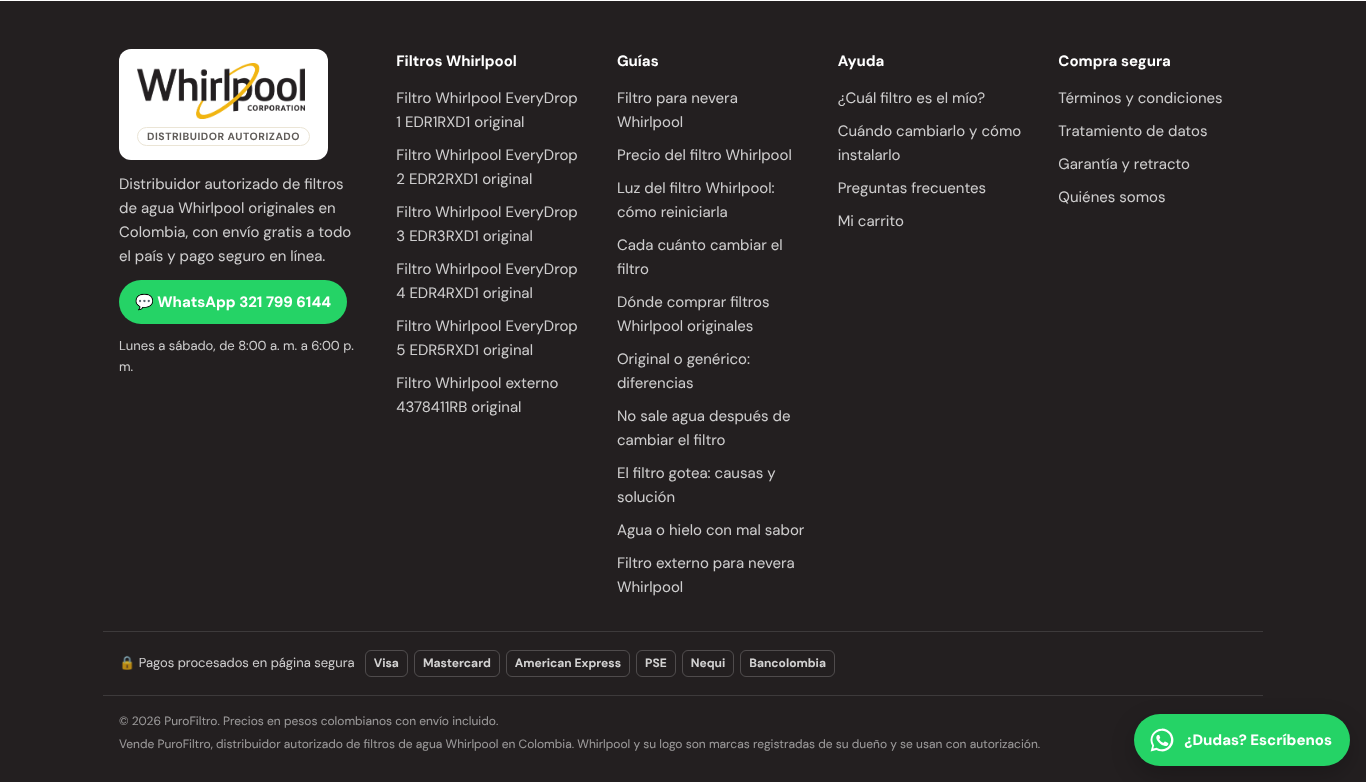
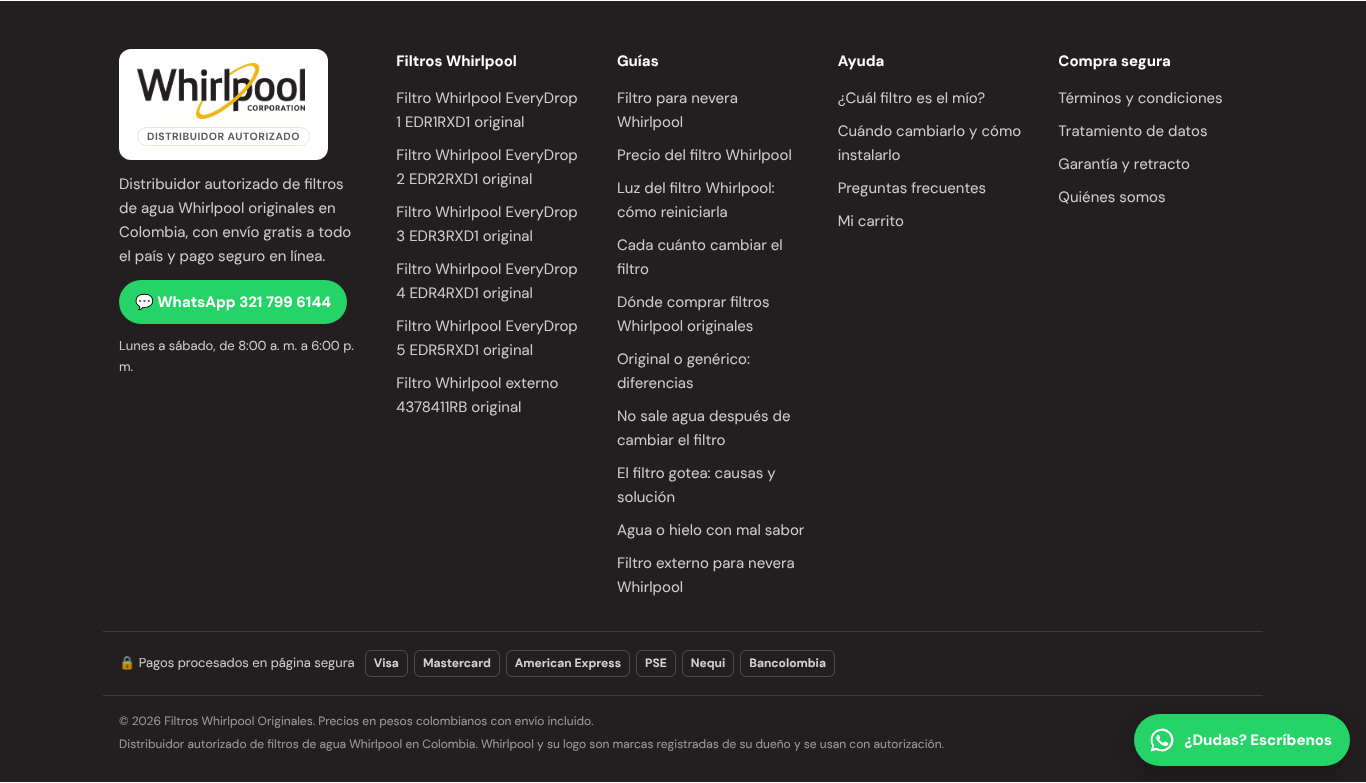
Sitios por marca sin rastro de PuroFiltro
- El nombre que ve el cliente es el de la tienda de la marca («Filtros GE Originales»).
- Carpetas sin el prefijo purofiltro- (img/, api/, data/...) y zips tienda-<marca>.zip.
- Número de pedido con las iniciales de la marca (GE-, LG-, SA-, WH-).

Claude-Session: https://claude.ai/code/session_01Sp6cWLHDTqXsEaejCBC2fh

Changed region(s): [[0.0922, 0.9195, 0.6764, 0.9808]]

diff --git a/filtroya-web/src/purofiltro-marcas.css b/filtroya-web/src/purofiltro-marcas.css
@@ -209,7 +209,7 @@ body:has(.m-barra) .wa-flot{bottom:calc(86px + env(safe-area-inset-bottom))}
 .fy-toast{position:fixed;left:50%;bottom:calc(16px + env(safe-area-inset-bottom,0px));transform:translate(-50%,160%);background:var(--pie);color:#fff;border-radius:14px;padding:12px 14px;display:flex;gap:14px;align-items:center;box-shadow:0 10px 30px rgba(0,0,0,.3);z-index:90;transition:transform .25s;max-width:calc(100% - 32px)}
 .fy-toast.on{transform:translate(-50%,0)}.fy-toast a{color:var(--hero-acento);font-weight:800;white-space:nowrap}
 
-/* Colores tomados de cada logo. El logo no se usa: el nombre va en texto junto al de PuroFiltro. */
+/* Colores tomados del logo de cada marca. */
 /* ===== Samsung: azul del logo #1428A0 sobre blanco ===== */
 body.m-samsung{--f-titulo:"Plus Jakarta Sans",system-ui,sans-serif;--f-texto:"Plus Jakarta Sans",system-ui,sans-serif;--ls-marca:.22em;
   --pri:#1428a0;--ink:#0b1440;--muted:#545c78;--fondo:#ffffff;--panel:#f2f4fb;--card:#ffffff;--suave:#e6eaf8;--line:#dde2f1;--ok:#0f8a5f;

diff --git a/filtroya-web/build.py b/filtroya-web/build.py
@@ -574,11 +574,11 @@ for marca in marcas_exclusivas.MARCAS_INFO:
     ids = {p["id"] for p in CATALOGO if p["marca"] == marca}
     if d.exists():  # los pedidos de purofiltro-data/ nunca se borran
         for hijo in d.iterdir():
-            if hijo.name != PREFIJO + "data":
+            if hijo.name not in ("data", PREFIJO + "data"):
                 shutil.rmtree(hijo) if hijo.is_dir() else hijo.unlink()
     d.mkdir(parents=True, exist_ok=True)
     for f in OUT.iterdir():
-        if f.name in QUITAR or f.name == PREFIJO + "data" and (d / f.name).exists():
+        if f.name in QUITAR or f.name == PREFIJO + "data" and ((d / "data").exists() or (d / f.name).exists()):
             continue
         if f.is_dir():
             shutil.copytree(f, d / f.name, dirs_exist_ok=True, ignore=shutil.ignore_patterns("pedidos.sqlite*", "correos.log", "config.php") if f.name in (PREFIJO + "data", PREFIJO + "api") else None)
@@ -638,4 +638,17 @@ for marca in marcas_exclusivas.MARCAS_INFO:
     sobran = [x.name for x in d.iterdir() if x.name in QUITAR and x.name not in ("index.php", "llms.php", "sitemap.php")]
     if sobran:  # el sitio de una marca nunca debe llevar páginas de la tienda principal (tienen las otras marcas)
         sys.exit(f"Sitio {marca}: sobran {sobran}")
+    # En su propio dominio no hace falta el prefijo: img/, api/, data/, carrito.js... (el negocio ya no se llama PuroFiltro)
+    for x in list(d.iterdir()):
+        if x.name.startswith(PREFIJO):
+            destino = d / x.name[len(PREFIJO):]
+            if x.name == PREFIJO + "data" and destino.exists():
+                shutil.rmtree(x)
+            else:
+                x.rename(destino)
+    for f in d.rglob("*"):
+        if f.is_file() and "data" not in f.relative_to(d).parts[:1] and f.suffix in (".php", ".js", ".css", ".json", ".txt", ".xml", ".html", "") :
+            txt = f.read_text(encoding="utf-8")
+            if PREFIJO in txt or "PuroFiltro" in txt:
+                f.write_text(txt.replace(PREFIJO, "").replace("PuroFiltro", M["tienda"]), encoding="utf-8")
     print(f"Sitio {marca}: sitios/{s}/ con {len(rutas)} páginas")

diff --git a/filtroya-web/src/garantia-y-retracto.php b/filtroya-web/src/garantia-y-retracto.php
@@ -7,7 +7,7 @@
 <h2>Derecho de retracto: 5 días hábiles</h2><p>Como es una compra por internet, tienes <b>5 días hábiles desde que recibes el filtro</b> para arrepentirte, sin dar explicaciones. El filtro debe estar <b>sin instalar y en su empaque</b>. El transporte de la devolución corre por tu cuenta y te devolvemos el dinero en máximo 30 días calendario.</p>
 <h2>Reversión del pago</h2><p>Si pagaste con un medio electrónico y fuiste víctima de fraude, no autorizaste la compra, el producto no llegó, no es el que pediste o está defectuoso, puedes pedir la reversión del pago dentro de los 5 días hábiles siguientes a que lo sepas o lo recibas. Escríbenos y también avísale a tu banco.</p>
 <h2>Cómo pedir la garantía, el retracto o la reversión</h2>
-<ol><li>Escríbenos por WhatsApp al <?= h($n['telefono']) ?> o al correo <?= h($n['correo']) ?> con tu número de pedido (empieza por PF-).</li><li>Cuéntanos qué pasó y manda una foto del filtro y de la etiqueta.</li><li>Te respondemos en máximo 15 días hábiles con la solución y, si hay que devolverlo, cómo enviarlo.</li></ol>
+<ol><li>Escríbenos por WhatsApp al <?= h($n['telefono']) ?> o al correo <?= h($n['correo']) ?> con tu número de pedido (te llega en el correo de confirmación).</li><li>Cuéntanos qué pasó y manda una foto del filtro y de la etiqueta.</li><li>Te respondemos en máximo 15 días hábiles con la solución y, si hay que devolverlo, cómo enviarlo.</li></ol>
 <p>Si no quedas conforme, puedes acudir a la Superintendencia de Industria y Comercio: <a href="https://www.sic.gov.co" rel="nofollow">www.sic.gov.co</a>. Lee también los <a href="/terminos.php">Términos y condiciones</a>.</p>
 </article>
 <?php pie(); ?>

diff --git a/filtroya-web/src/api/pedido.php b/filtroya-web/src/api/pedido.php
@@ -52,7 +52,10 @@ $st = db()->prepare("SELECT COUNT(*) FROM pedidos WHERE ip = ? AND estado = 'pen
 $st->execute([$ip, date('c', time() - 3600)]);
 if ((int) $st->fetchColumn() >= 15) fail('Demasiados intentos. Espera un rato e intenta de nuevo.', 429);
 
-$ref = 'PF-' . date('ymd') . '-' . strtoupper(substr(bin2hex(random_bytes(4)), 0, 6));
+// Prefijo del número de pedido: PF en la tienda principal, las iniciales de la marca en su sitio (GE, LG, SA, WH)
+$mj = dirname(__DIR__) . '/purofiltro-marca.json';
+$pre = is_file($mj) ? strtoupper(substr((string) (json_decode((string) file_get_contents($mj), true)['clase'] ?? 'pf'), 0, 2)) : 'PF';
+$ref = $pre . '-' . date('ymd') . '-' . strtoupper(substr(bin2hex(random_bytes(4)), 0, 6));
 db()->prepare('INSERT INTO pedidos (ref, creado, pid, producto, refprod, unidades, pack, total, entrega, ciudad, nombre, email, tel, barrio, dir, indicaciones, modelo, recordar, ip)
     VALUES (?,?,?,?,?,?,?,?,?,?,?,?,?,?,?,?,?,?,?)')->execute([
     $ref, date('c'), $C['lineas'][0]['pid'], $C['lineas'][0]['nombre'] . (count($C['lineas']) > 1 ? ' y ' . (count($C['lineas']) - 1) . ' más' : ''),

diff --git a/filtroya-web/src/purofiltro-marcas.php b/filtroya-web/src/purofiltro-marcas.php
@@ -51,6 +51,6 @@ function pie_marca(array $M): void
         . '<nav><b>Compra segura</b><a href="/terminos.php">Términos y condiciones</a><a href="/privacidad.php">Tratamiento de datos</a><a href="/garantia-y-retracto.php">Garantía y retracto</a><a href="/quienes-somos.php">Quiénes somos</a></nav>'
         . '</div><div class="m-wrap m-pie-medios"><span>🔒 Pagos procesados en página segura</span>' . medios_pago_html() . '</div>'
         . '<div class="m-wrap m-pie-base"><span>© ' . date('Y') . ' ' . h($n['nombre']) . '. Precios en pesos colombianos con envío incluido.</span>'
-        . '<span>Vende ' . h($n['nombre']) . ', distribuidor autorizado de filtros de agua ' . h($M['nombre']) . ' en Colombia. ' . h($M['nombre']) . ' y su logo son marcas registradas de su dueño y se usan con autorización.</span></div></footer>';
+        . '<span>Distribuidor autorizado de filtros de agua ' . h($M['nombre']) . ' en Colombia. ' . h($M['nombre']) . ' y su logo son marcas registradas de su dueño y se usan con autorización.</span></div></footer>';
     echo $h . whatsapp_html() . '</body></html>';
 }

diff --git a/filtroya-web/marcas_exclusivas.py b/filtroya-web/marcas_exclusivas.py
@@ -66,7 +66,7 @@ def generar_marca(marca, dir_, base, CATALOGO, slug, norm, ubic, foto, php_str, 
     s = slug(marca)
     for p in ps:
         p["slug_o"] = p["slug"] + "-original"
-    M = {"nombre": marca, "clase": s, "base": base, "tema": info["tema"], "fuentes": info["fuentes"], **(logo or {}),
+    M = {"nombre": marca, "clase": s, "base": base, "tema": info["tema"], "fuentes": info["fuentes"], "tienda": f"Filtros {marca} Originales", **(logo or {}),
          "productos": [[p["nombre_largo"] + " original", p["slug_o"]] for p in ps]}
     R = marcas_seo.rutas(marca, ps, base, slug, norm, ubic, CIUDADES_CO)
     M["guias"] = [[r, n] for r, n in R["temas"]]

diff --git a/filtroya-web/src/api/lib.php b/filtroya-web/src/api/lib.php
@@ -8,6 +8,9 @@ function cfg(): array
     if ($c === null) {
         $f = __DIR__ . '/config.php';
         $c = is_file($f) ? require $f : require __DIR__ . '/config.sample.php';
+        // En el sitio de una marca el nombre que ve el cliente es el de la tienda de la marca (ej. «Filtros GE Originales»)
+        $m = dirname(__DIR__) . '/purofiltro-marca.json';
+        if (is_file($m) && ($j = json_decode((string) file_get_contents($m), true)) && !empty($j['tienda'])) $c['negocio']['nombre'] = $j['tienda'];
     }
     return $c;
 }
